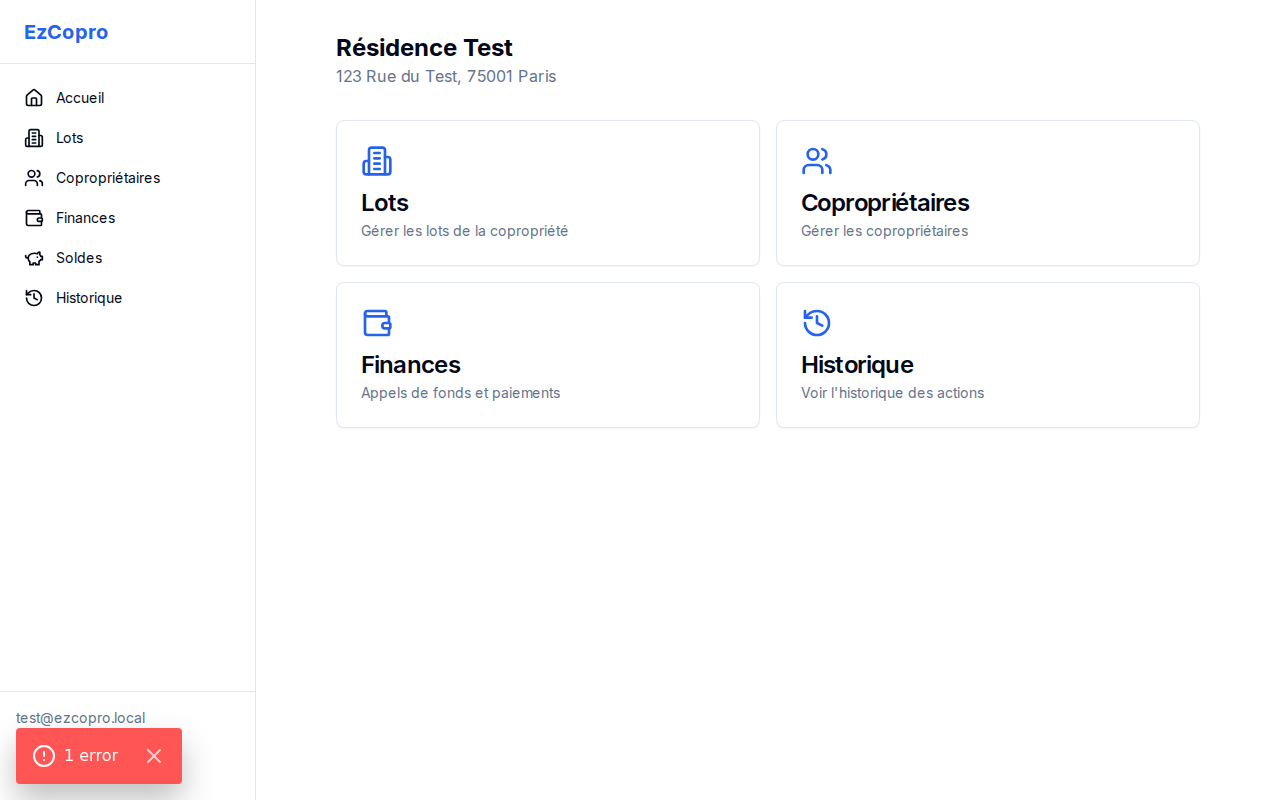
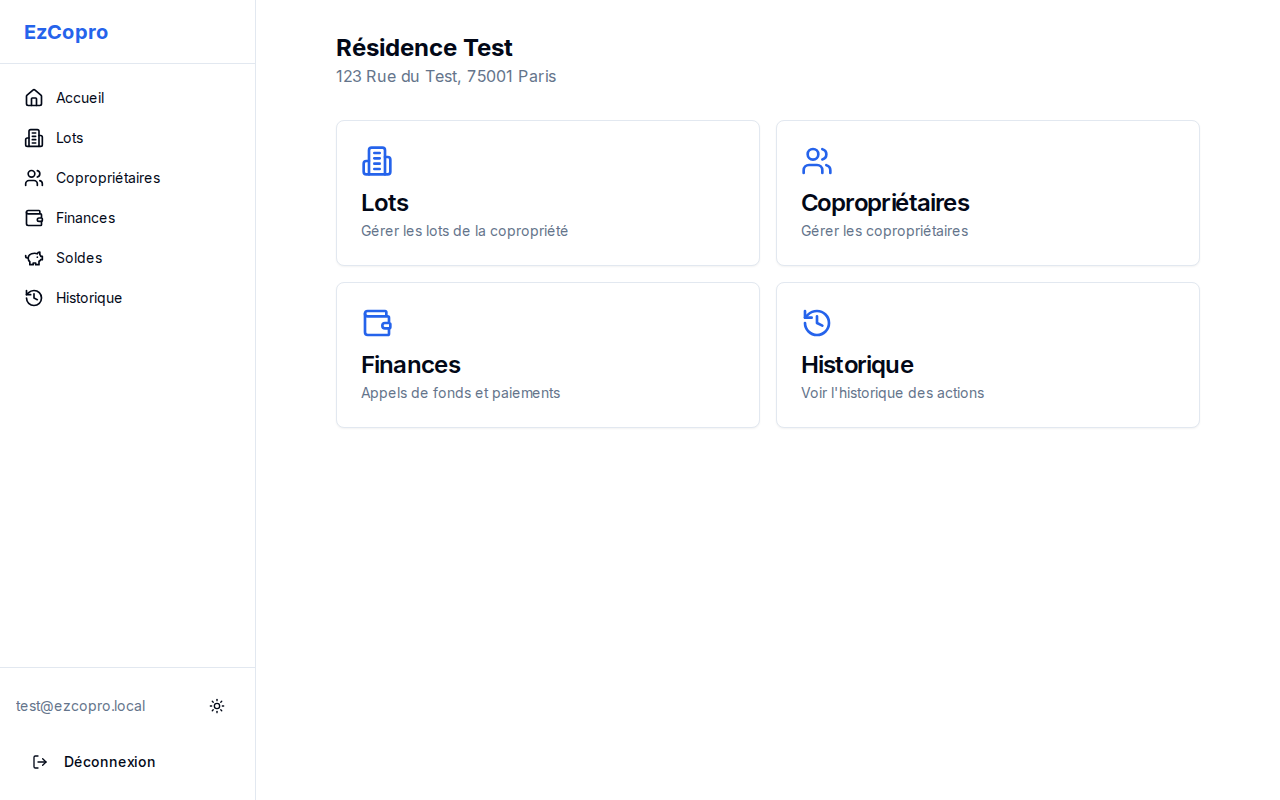
fix: correction screenshot dashboard light mode (#4)
Remove the error from the light mode screenshot

Changed region(s): [[0.0, 0.875, 0.1562, 1.0]]

diff --git a/src/app/layout.tsx b/src/app/layout.tsx
@@ -42,16 +42,7 @@ export default function RootLayout({
         {/* FOUC prevention: Apply theme before React hydration */}
         <script
           dangerouslySetInnerHTML={{
-            __html: `
-              (function() {
-                try {
-                  var stored = localStorage.getItem('ezcopro-theme');
-                  var prefersDark = window.matchMedia('(prefers-color-scheme: dark)').matches;
-                  var isDark = stored === 'dark' || ((stored === 'system' || !stored) && prefersDark);
-                  if (isDark) document.documentElement.classList.add('dark');
-                } catch (e) {}
-              })();
-            `,
+            __html: "(function(){try{var s=localStorage.getItem('ezcopro-theme');var p=window.matchMedia('(prefers-color-scheme:dark)').matches;var d=s==='dark'||((s==='system'||!s)&&p);if(d)document.documentElement.classList.add('dark');}catch(e){}})();",
           }}
         />
       </head>
